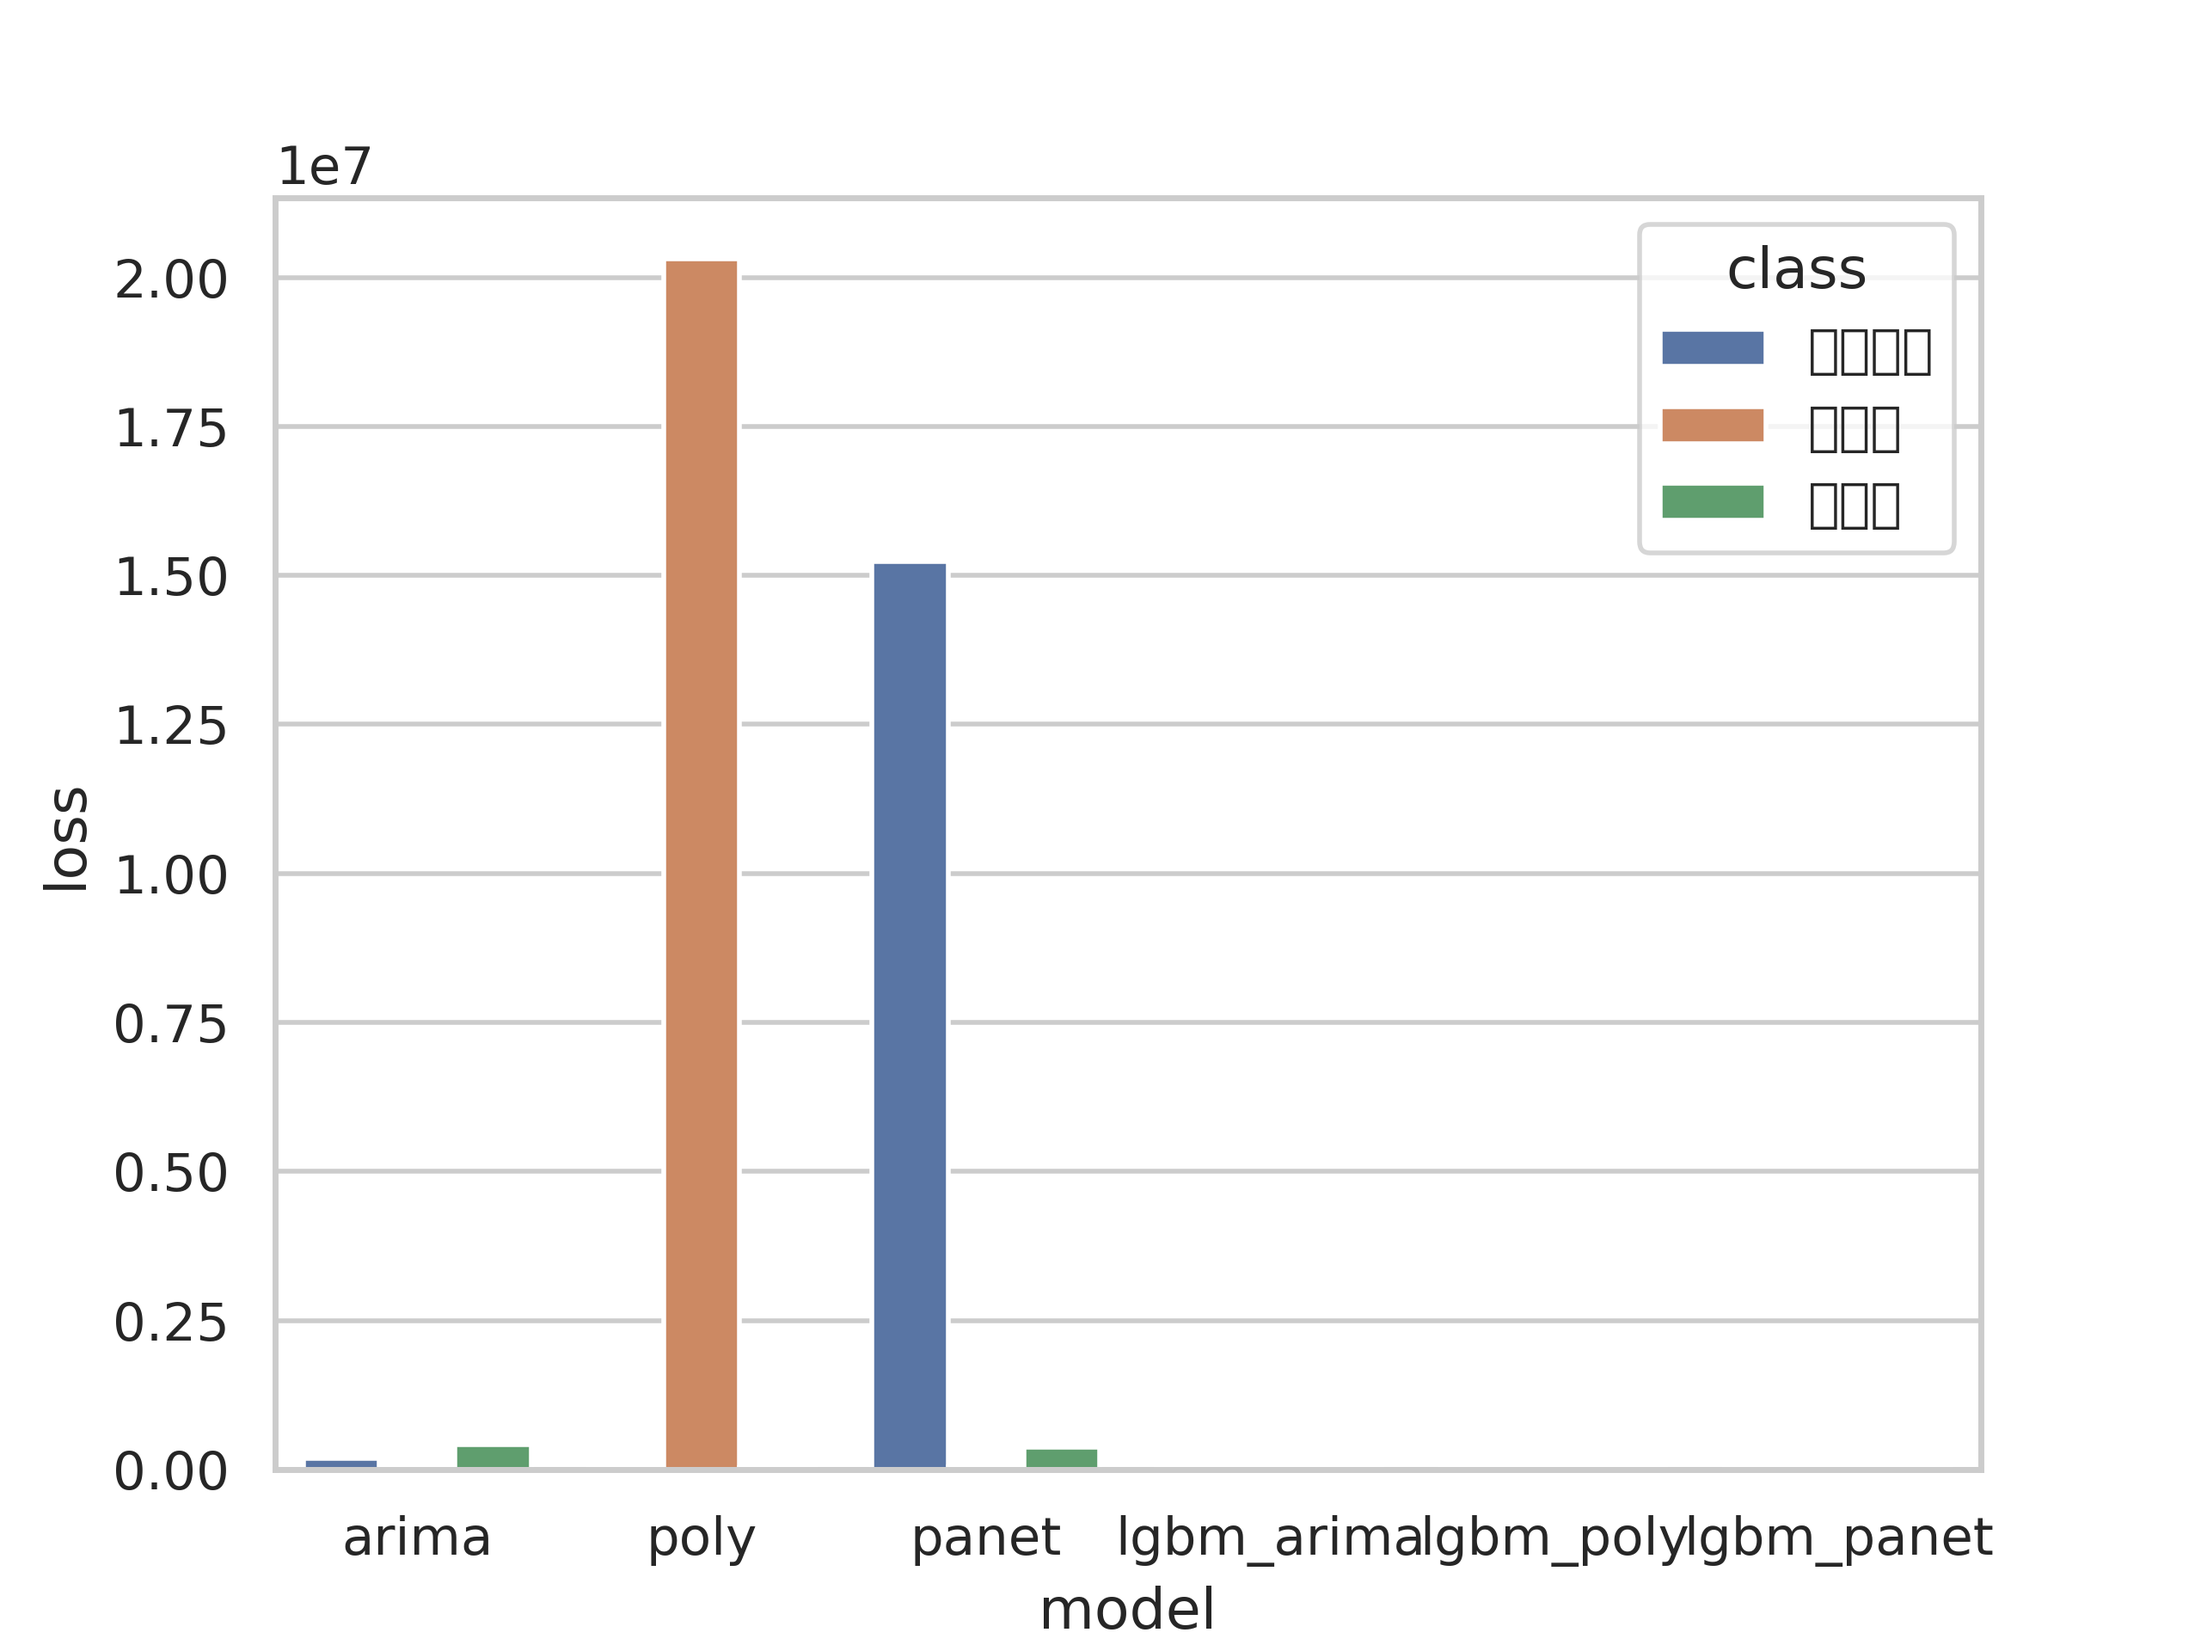
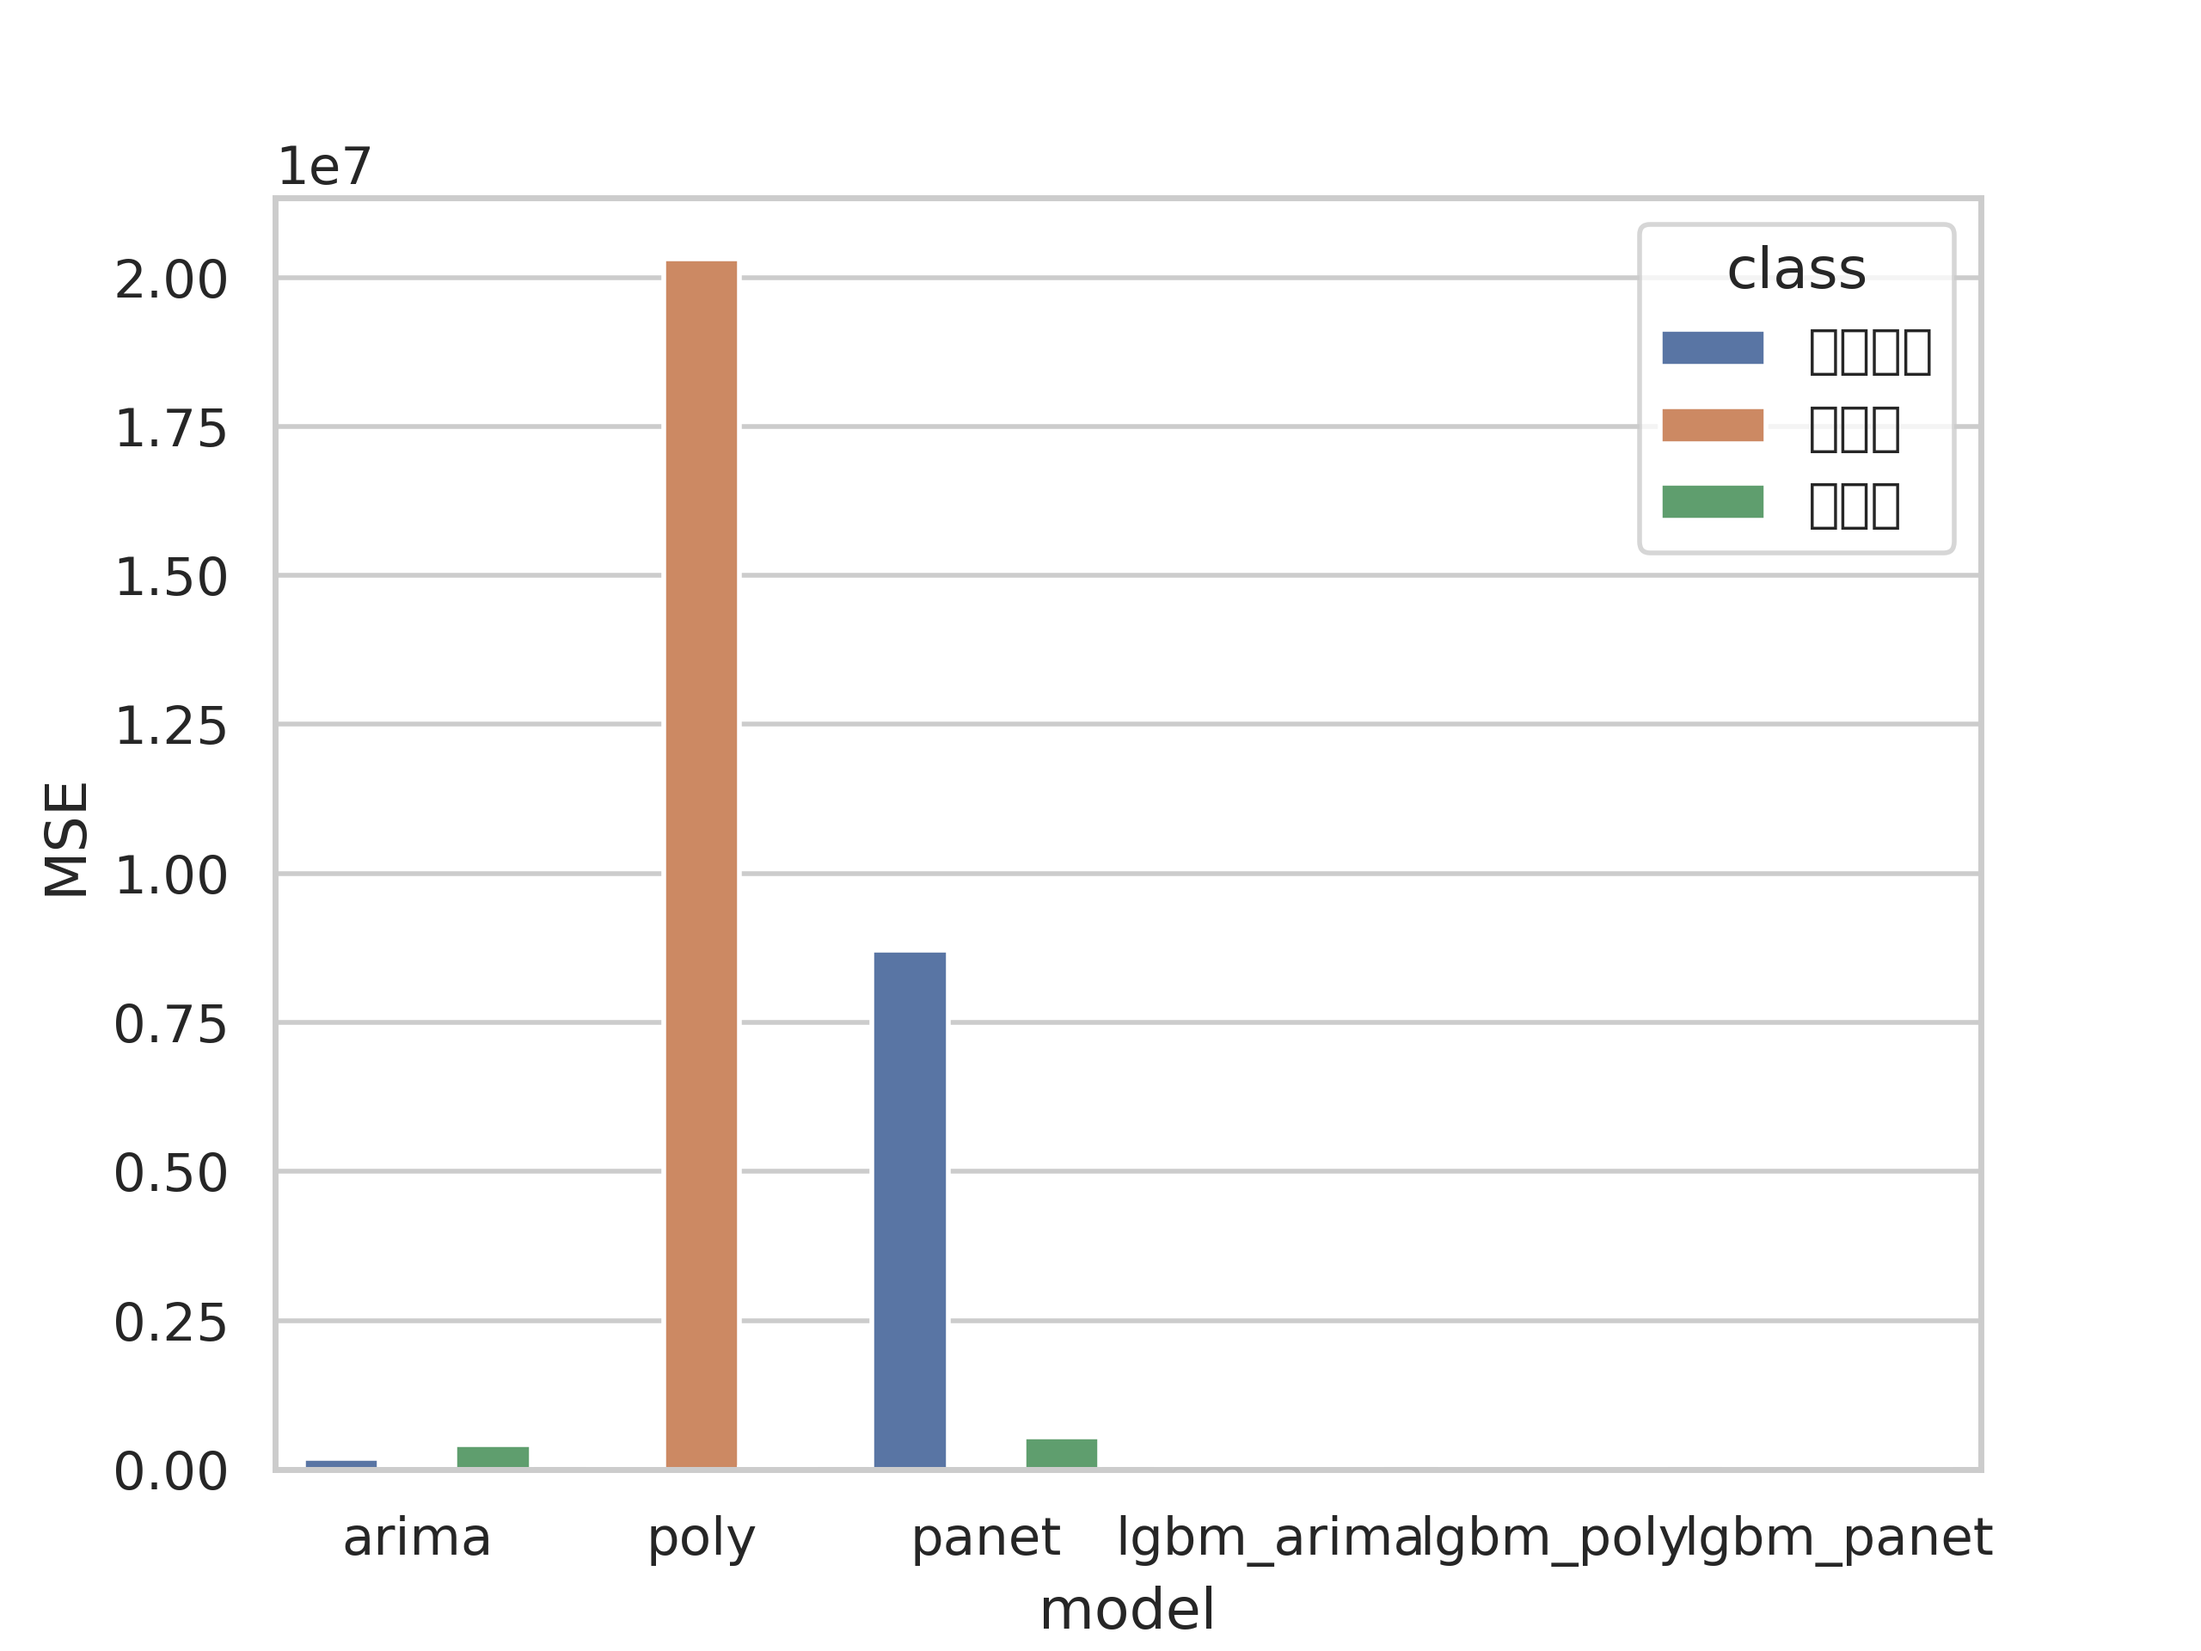
add eval

Changed region(s): [[0.375, 0.3438, 0.4375, 0.5938], [0.0, 0.4688, 0.0625, 0.5312], [0.4688, 0.8438, 0.5, 0.875]]

diff --git a/school_predict/main.py b/school_predict/main.py
@@ -18,11 +18,8 @@ from sklearn.metrics import mean_squared_error
 #     return df_data['xxlb'].value_counts()
 
 def plot_mse(m, c, l, path):
-    print(m)
-    print(c)
-    print(l)
     df_data = pd.DataFrame({'model':m, 'class':c, 'MSE': l}, columns=['model', 'class', 'MSE'])
-    sns.barplot(data=df_data, x='model', y='loss', hue="class")
+    sns.barplot(data=df_data, x='model', y='MSE', hue="class")
 
     plt.savefig(path, dpi=400)
     plt.close()
@@ -135,6 +132,8 @@ if __name__ == '__main__':
                 df_test = predict_xs(submodel, pop_data, '年份', ['人均余额','总人口数(万人)','常驻人口数(万人)'], opt.predict_range)
             elif model != submodel:
                 continue
+            if opt.eval:
+                print("== Start to eval", model, submodel if model == 'lgbm' else '')
             predict_value = ['幼儿园数', '小学数', '中学数']
             for i in range(len(predict_value)):
                 if model != 'lgbm':
